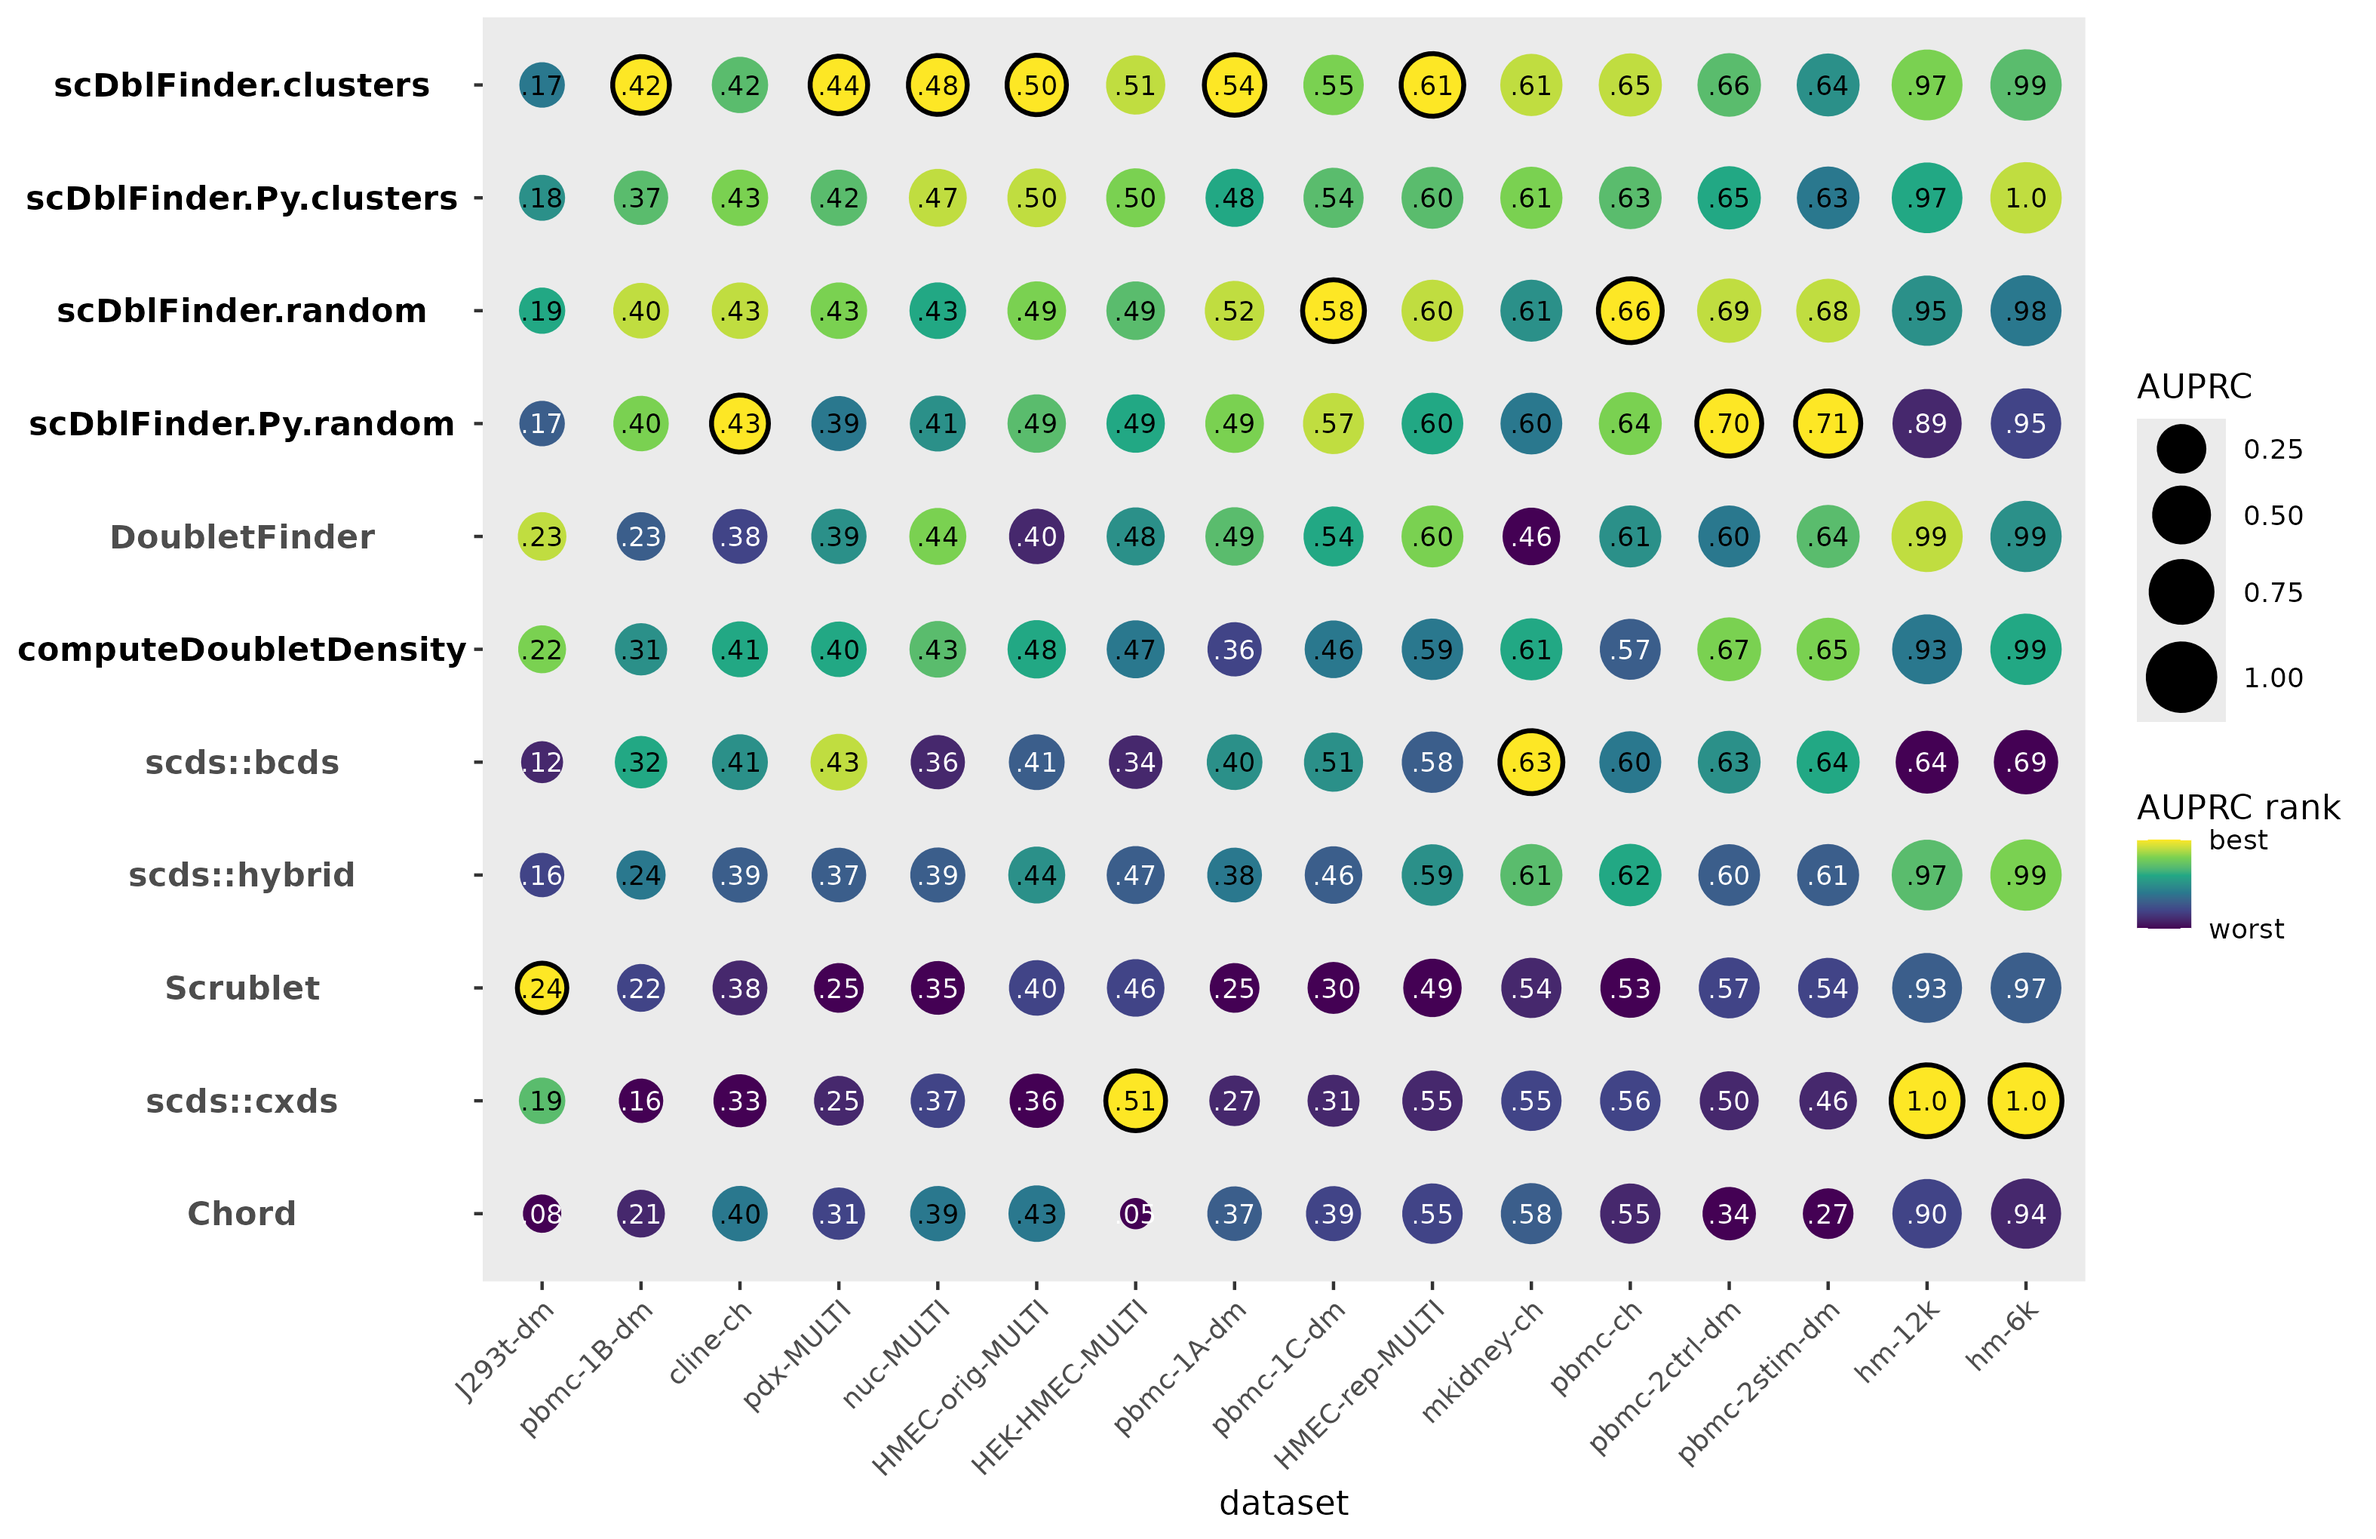
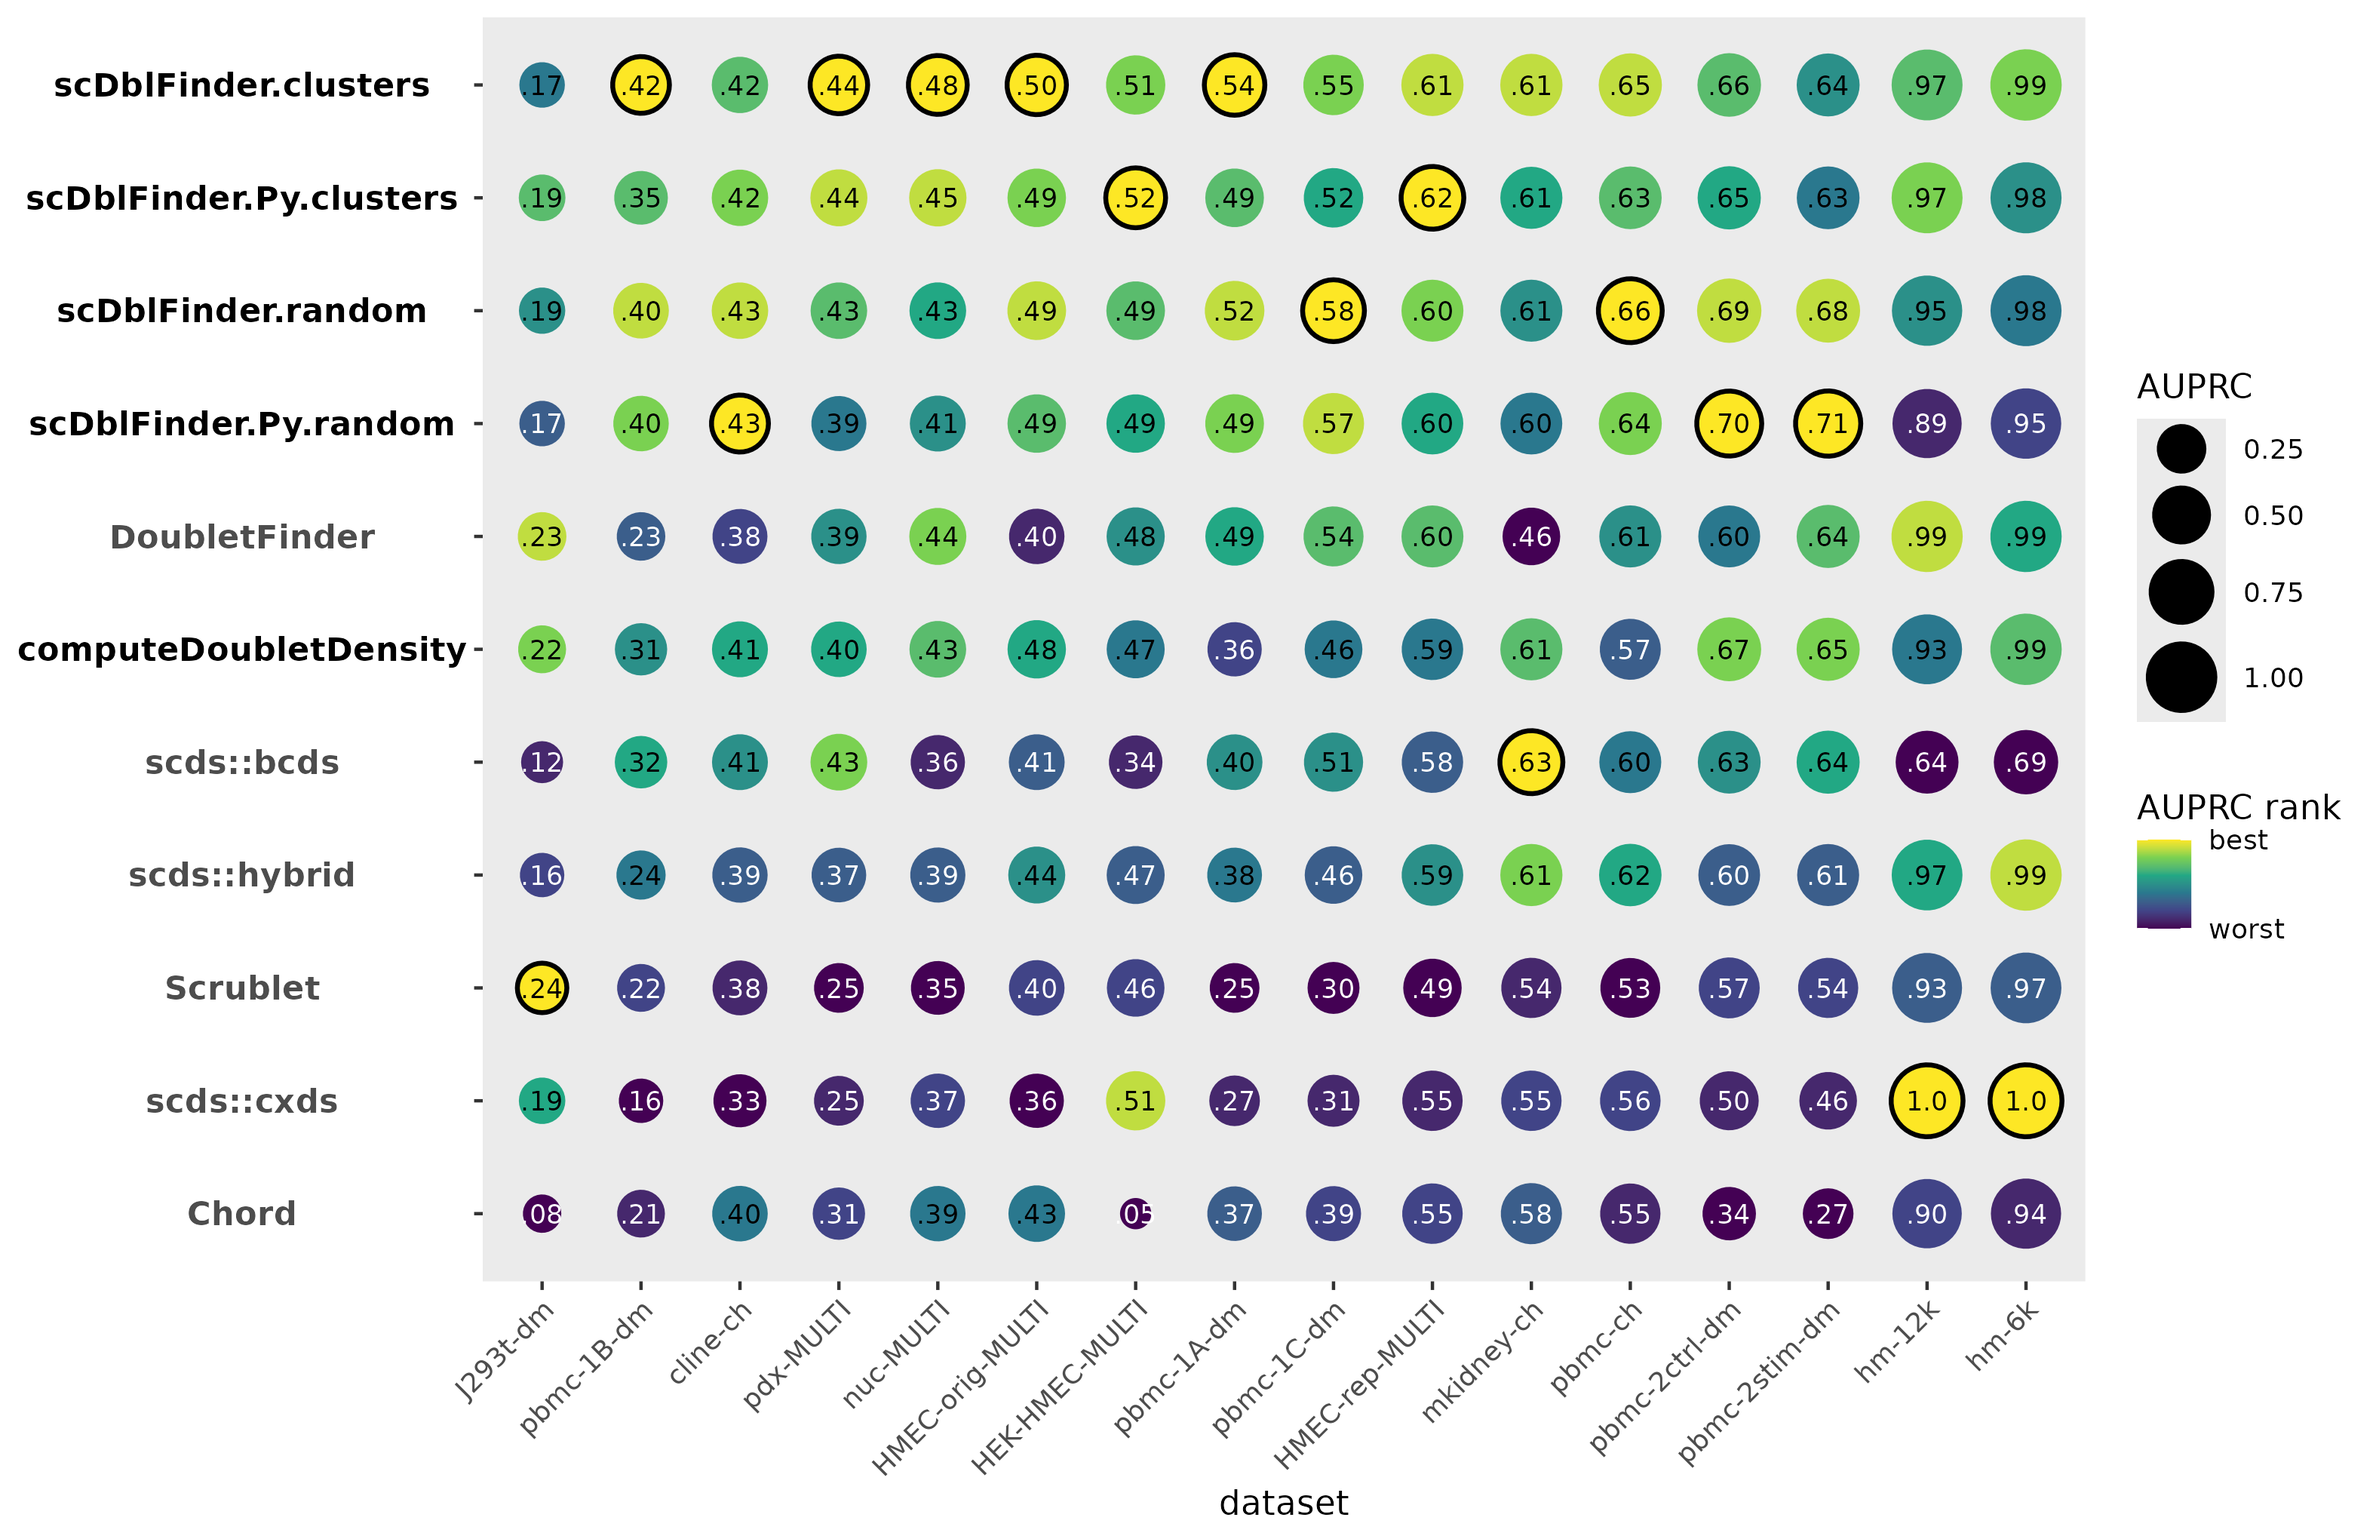
added snakefile

diff --git a/monitoring/gpu_monitor.py b/monitoring/gpu_monitor.py
@@ -1,0 +1,35 @@
+#!/usr/bin/env python3
+"""Poll `nvidia-smi` at a fixed interval, logging GPU utilization/memory to CSV.
+
+Runs until killed (SIGTERM/SIGINT), which is how the Snakefile uses it: start
+this in the background before a GPU run, then kill it once the run finishes.
+"""
+import csv
+import subprocess
+import sys
+import time
+
+
+def main():
+    out_path = sys.argv[1]
+    interval = float(sys.argv[2]) if len(sys.argv) > 2 else 1.0
+
+    with open(out_path, "w", newline="") as f:
+        writer = csv.writer(f)
+        writer.writerow(["timestamp", "gpu_util_pct", "mem_used_mib", "mem_total_mib"])
+        f.flush()
+        while True:
+            out = subprocess.run(
+                ["nvidia-smi", "-i", "0",
+                 "--query-gpu=utilization.gpu,memory.used,memory.total",
+                 "--format=csv,noheader,nounits"],
+                capture_output=True, text=True, check=True,
+            ).stdout.strip()
+            util, used, total = (x.strip() for x in out.split(","))
+            writer.writerow([time.time(), util, used, total])
+            f.flush()
+            time.sleep(interval)
+
+
+if __name__ == "__main__":
+    main()

diff --git a/README.md b/README.md
@@ -1,6 +1,6 @@
 # scDblFinderPy paper
 
-This is the code & data behind the scDblFinderPy paper.
+This is the code & data behind the scDblFinderPy paper, as well as the snakefile used to track the performance and resource usage of the scDblFinderPy package.
 
 For the `scDblFinderPy` package itself, visit the package's [github page](https://github.com/ETHZ-INS/scDblFinderPy).
 
@@ -81,3 +81,56 @@ the AUPRC comparison figure (`benchmark_AUPRC_fig.png`):
 ```bash
 Rscript plot_benchmark.R
 ```
+
+## Automated pipeline (Snakemake)
+
+`monitoring/Snakefile` automates steps 3-4 above for both a CPU and a GPU
+run, and additionally tracks the resource usage (wall time, memory, CPU
+load, and — for the GPU run — `nvidia-smi` utilization/memory) of each run.
+
+Steps 1-2 above (installing `scDblFinderPy` and fetching/converting the
+datasets) are still prerequisites; Snakemake orchestrates the rest.
+
+### 1. Install Snakemake
+
+```bash
+pip install snakemake
+```
+
+### 2. Run it
+
+From the repo root:
+
+```bash
+snakemake --cores 1 -s monitoring/Snakefile
+```
+
+or, equivalently, from `monitoring/`:
+
+```bash
+cd monitoring
+snakemake --cores 1
+```
+
+Useful variations:
+
+```bash
+snakemake -n                                             # dry run: show what would execute
+snakemake --cores 1 benchmarking/benchmark_AUPRC_fig_GPU.png  # build just one target
+```
+
+The GPU rule requires the same conda/RAPIDS setup as `python
+run_python_benchmark.py --gpu` above, plus `nvidia-smi` on `PATH`.
+
+### What it produces
+
+- `benchmarking/python_benchmark_metrics_CPU.csv` / `_GPU.csv` and
+  `benchmarking/benchmark_AUPRC_fig_CPU.png` / `_GPU.png` — same outputs as
+  the manual steps, just written straight to their CPU/GPU-suffixed names.
+- `monitoring/benchmarks/run_benchmark_CPU.tsv` / `_GPU.tsv` — Snakemake's
+  built-in per-run profile (wall time, max RSS, mean CPU load, I/O).
+- `monitoring/benchmarks/gpu_usage_GPU.csv` — GPU utilization % and memory
+  used, sampled once a second for the duration of the GPU run.
+
+The `monitoring/benchmarks/` outputs are run-machine-specific and are
+gitignored rather than checked in.
